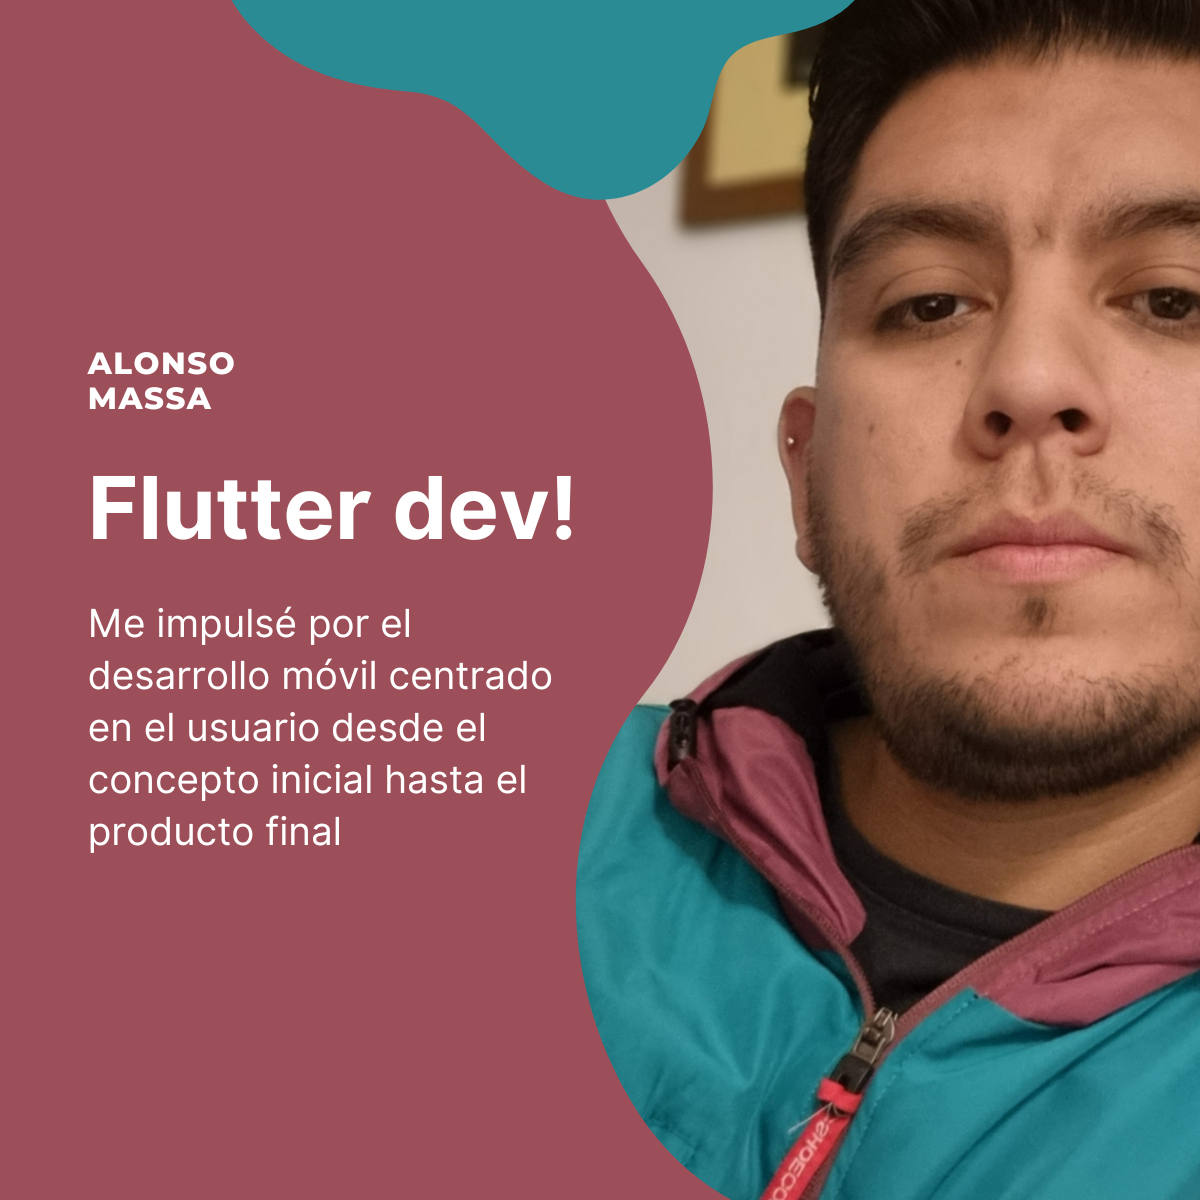
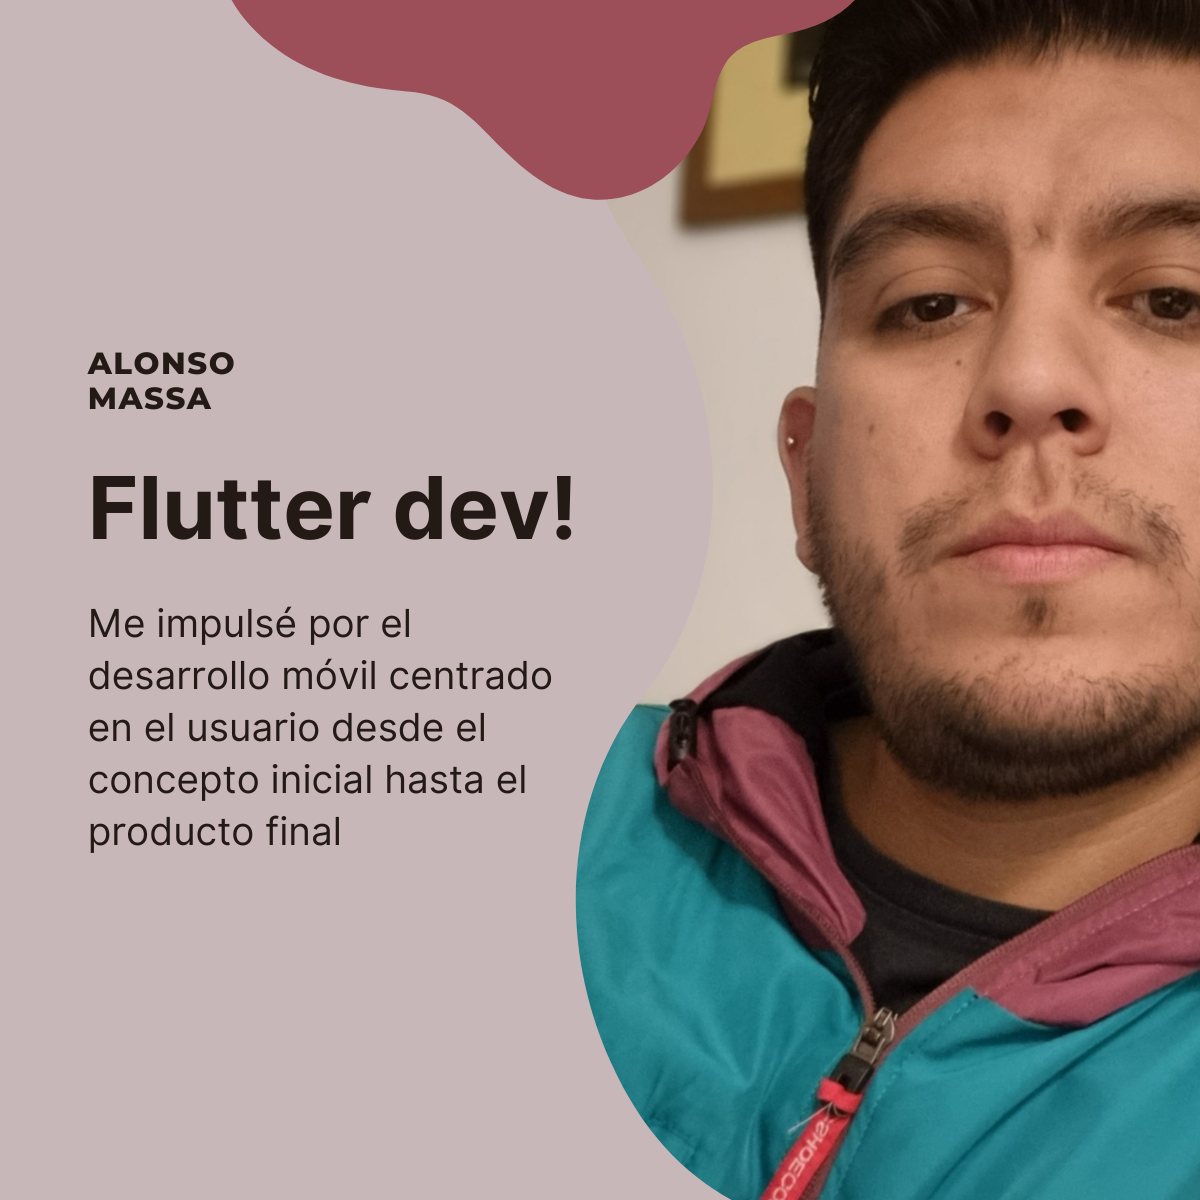
color e icono

diff --git a/assets/css/style.css b/assets/css/style.css
@@ -9,20 +9,20 @@
 # General
 --------------------------------------------------------------*/
 
-/* #2A8B95 */
-/* #2A8B95 */
+/* #9D4F59 */
+/* #9D4F59 */
 body {
   font-family: "Open Sans", sans-serif;
   color: #272829;
 }
 
 a {
-  color: #2A8B95;
+  color: #9D4F59;
   text-decoration: none;
 }
 
 a:hover {
-  color: #9D4F59;
+  color: #C7B7B9;
   text-decoration: none;
 }
 
@@ -44,7 +44,7 @@ h1, h2, h3, h4, h5, h6 {
   right: 15px;
   bottom: 15px;
   z-index: 996;
-  background: #2A8B95;
+  background: #9D4F59;
   width: 40px;
   height: 40px;
   border-radius: 50px;
@@ -58,7 +58,7 @@ h1, h2, h3, h4, h5, h6 {
 }
 
 .back-to-top:hover {
-  background: #2A8B95;
+  background: #9D4F59;
   color: #fff;
 }
 
@@ -86,7 +86,7 @@ h1, h2, h3, h4, h5, h6 {
   position: fixed;
   top: calc(50% - 30px);
   left: calc(50% - 30px);
-  border: 6px solid #2A8B95;
+  border: 6px solid #9D4F59;
   border-top-color: #fff;
   border-bottom-color: #fff;
   border-radius: 50%;
@@ -211,7 +211,7 @@ h1, h2, h3, h4, h5, h6 {
 
 .nav-menu a:hover, .nav-menu .active, .nav-menu li:hover > a {
   color: #fff;
-  background: #2A8B95;
+  background: #9D4F59;
 }
 
 .nav-menu a:hover span, .nav-menu .active span, .nav-menu li:hover > a span {
@@ -260,7 +260,7 @@ h1, h2, h3, h4, h5, h6 {
 
 .mobile-nav-active .mobile-nav-toggle {
   color: #fff;
-  background-color: #2A8B95;
+  background-color: #9D4F59;
 }
 
 /*--------------------------------------------------------------
@@ -313,7 +313,7 @@ h1, h2, h3, h4, h5, h6 {
 }
 
 #hero p span {
-  color: #2A8B95;
+  color: #9D4F59;
   letter-spacing: 1px;
 }
 
@@ -331,7 +331,7 @@ h1, h2, h3, h4, h5, h6 {
 }
 
 #hero .social-links a:hover {
-  color: #2A8B95;
+  color: #9D4F59;
 }
 
 @media (max-width: 992px) {
@@ -389,7 +389,7 @@ section {
   display: block;
   width: 40px;
   height: 3px;
-  background: #2A8B95;
+  background: #9D4F59;
   bottom: 0;
   left: calc(50% - 20px);
 }
@@ -425,7 +425,7 @@ section {
 .about .content ul i {
   font-size: 16px;
   margin-right: 5px;
-  color: #2A8B95;
+  color: #9D4F59;
   line-height: 0;
 }
 
@@ -451,7 +451,7 @@ section {
   left: 50%;
   transform: translateX(-50%);
   font-size: 24px;
-  background: #2A8B95;
+  background: #9D4F59;
   color: #fff;
   border-radius: 50px;
   display: inline-flex;
@@ -508,7 +508,7 @@ section {
   width: 1px;
   height: 10px;
   transition: .9s;
-  background-color: #2A8B95;
+  background-color: #9D4F59;
 }
 
 /*--------------------------------------------------------------
@@ -525,7 +525,7 @@ section {
 .resume .resume-item {
   padding: 0 0 20px 20px;
   margin-top: -2px;
-  border-left: 2px solid #2A8B95;
+  border-left: 2px solid #9D4F59;
   position: relative;
 }
 
@@ -535,7 +535,7 @@ section {
   font-weight: 600;
   text-transform: uppercase;
   font-family: "Poppins", sans-serif;
-  color: #2A8B95;
+  color: #9D4F59;
   margin-bottom: 10px;
 }
 
@@ -569,7 +569,7 @@ section {
   left: -9px;
   top: 0;
   background: #fff;
-  border: 2px solid #2A8B95;
+  border: 2px solid #9D4F59;
 }
 
 /*--------------------------------------------------------------
@@ -603,7 +603,7 @@ section {
 }
 
 .portfolio #portfolio-flters li:hover, .portfolio #portfolio-flters li.filter-active {
-  color: #2A8B95;
+  color: #9D4F59;
 }
 
 .portfolio #portfolio-flters li:last-child {
@@ -749,11 +749,11 @@ section {
   height: 12px;
   background-color: #fff;
   opacity: 1;
-  border: 1px solid #2A8B95;
+  border: 1px solid #9D4F59;
 }
 
 .portfolio-details .portfolio-details-slider .swiper-pagination .swiper-pagination-bullet-active {
-  background-color: #2A8B95;
+  background-color: #9D4F59;
 }
 
 .portfolio-details .portfolio-info {
@@ -990,11 +990,11 @@ section {
   height: 12px;
   background-color: #fff;
   opacity: 1;
-  border: 1px solid #2A8B95;
+  border: 1px solid #9D4F59;
 }
 
 .testimonials .swiper-pagination .swiper-pagination-bullet-active {
-  background-color: #2A8B95;
+  background-color: #9D4F59;
 }
 
 @media (min-width: 992px) {
@@ -1013,7 +1013,7 @@ section {
 
 .contact .info i {
   font-size: 20px;
-  color: #2A8B95;
+  color: #9D4F59;
   float: left;
   width: 44px;
   height: 44px;
@@ -1045,7 +1045,7 @@ section {
 }
 
 .contact .info .email:hover i, .contact .info .address:hover i, .contact .info .phone:hover i {
-  background: #2A8B95;
+  background: #9D4F59;
   color: #fff;
 }
 
@@ -1115,7 +1115,7 @@ section {
 }
 
 .contact .php-email-form button[type="submit"] {
-  background: #2A8B95;
+  background: #9D4F59;
   border: 0;
   padding: 10px 35px;
   color: #fff;
@@ -1124,7 +1124,7 @@ section {
 }
 
 .contact .php-email-form button[type="submit"]:hover {
-  background: #2A8B95;
+  background: #9D4F59;
 }
 
 @-webkit-keyframes animate-loading {
@@ -1179,7 +1179,7 @@ section {
 #footer .social-links a {
   font-size: 18px;
   display: inline-block;
-  background: #2A8B95;
+  background: #9D4F59;
   color: #fff;
   line-height: 1;
   padding: 8px 0;
@@ -1192,7 +1192,7 @@ section {
 }
 
 #footer .social-links a:hover {
-  background: #2A8B95;
+  background: #9D4F59;
   color: #fff;
   text-decoration: none;
 }
